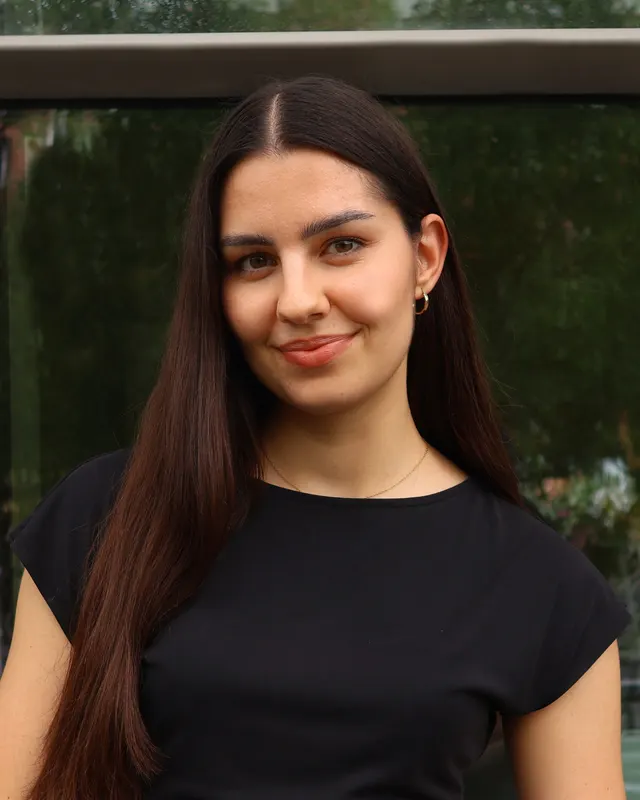
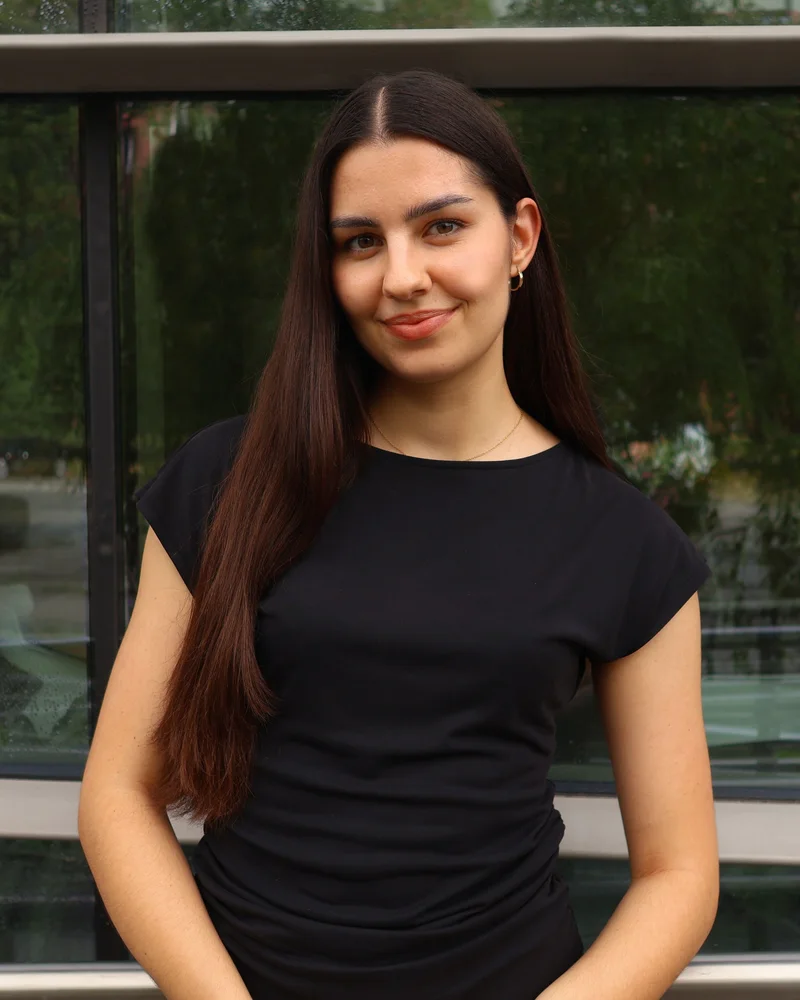
fix: portrety Zarządu na nowo z oryginałów sesji (oddalone, do pasa, 800x1000) i ostre zdjęcie grupowe z oryginału

diff --git a/src/app/[locale]/zarzad/page.tsx b/src/app/[locale]/zarzad/page.tsx
@@ -38,7 +38,7 @@ export default async function ZarzadPage({ params }: Props) {
         ]}
       />
       {/* Sesja Zarządu 2026/2027, schody przed budynkiem Z - szeroki kadr bez nóg pierwszego rzędu. */}
-      <TeamPhotoBand src="/photos/zarzad/zespol-szeroki.webp" alt={t("heroPhotoAlt")} label={t("bandLabel", { term: TERM })} place={t("bandPlace")} position="50% 40%" />
+      <TeamPhotoBand src="/photos/zarzad/zespol-szeroki.webp" alt={t("heroPhotoAlt")} label={t("bandLabel", { term: TERM })} place={t("bandPlace")} position="50% 50%" />
       <ZarzadContent orders={orders} />
     </>
   );
